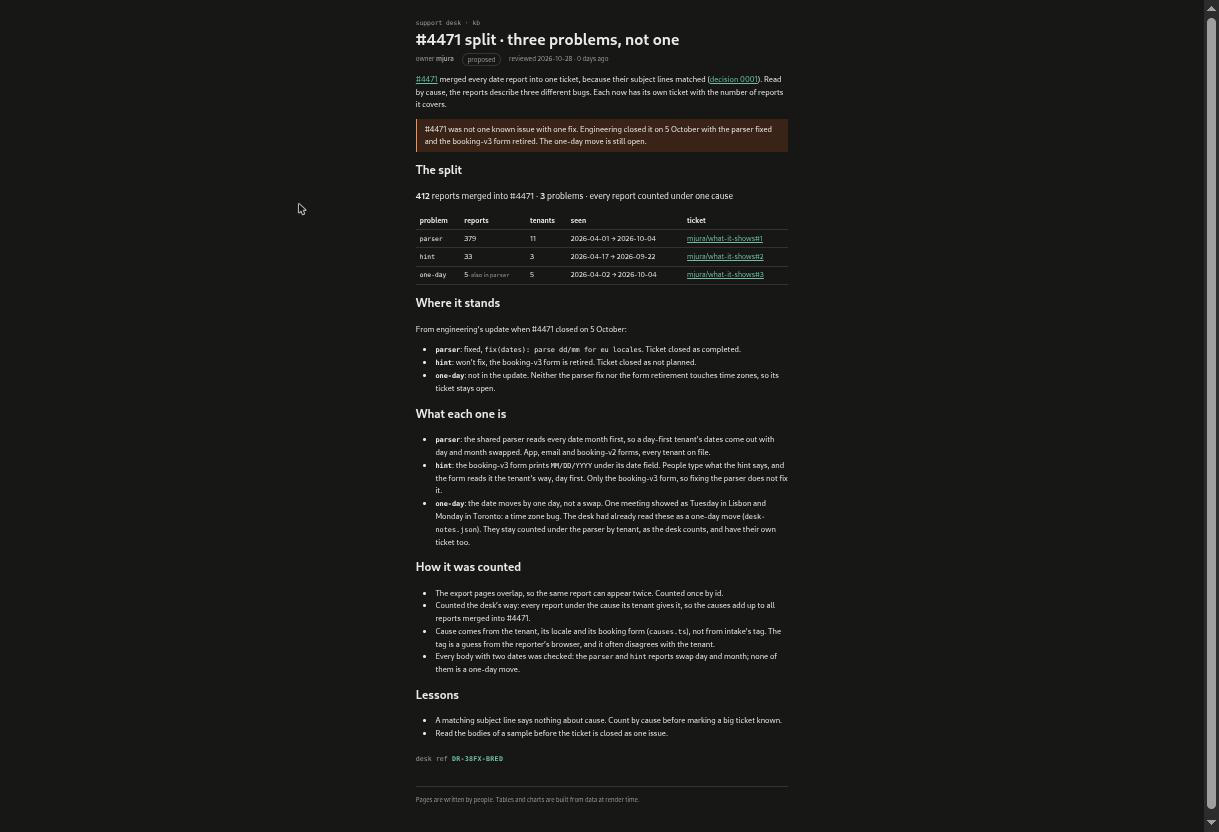
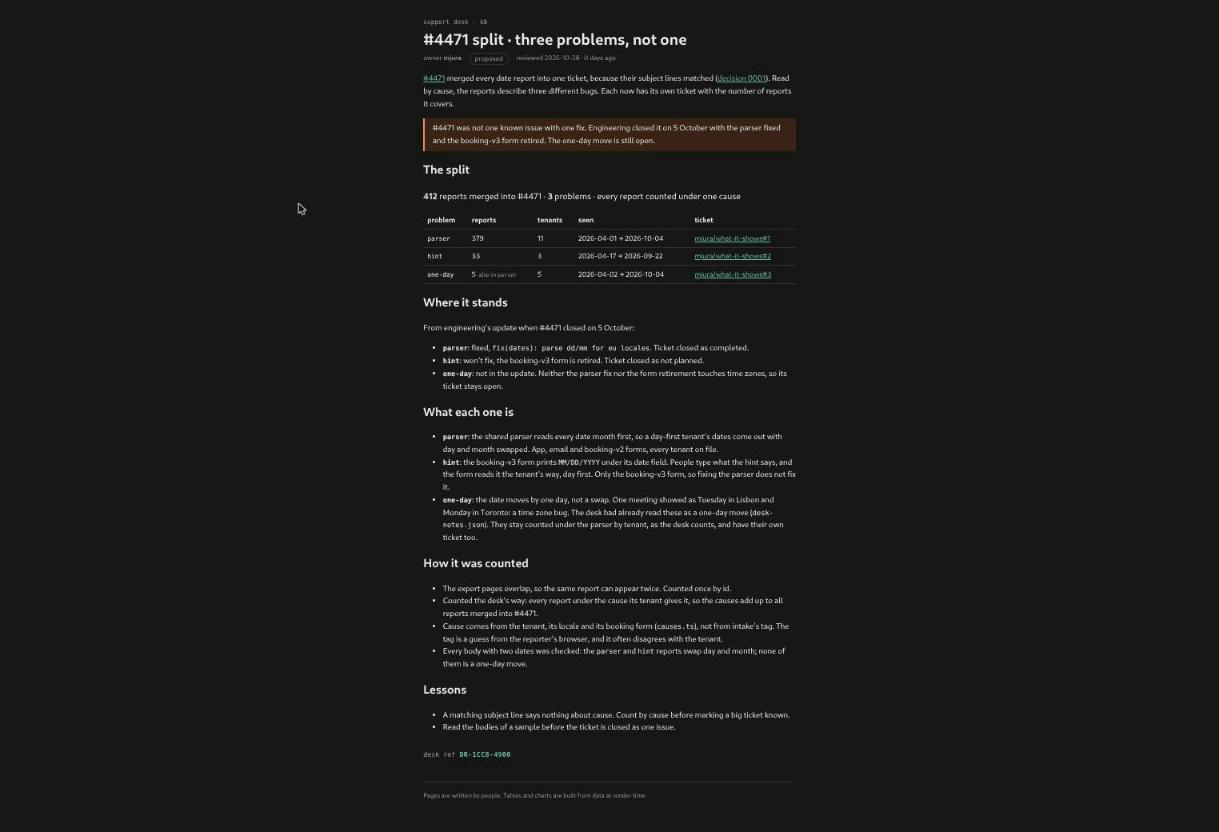
Sign the kb page with the course ticket

Changed region(s): [[0.3429, 0.0, 0.6546, 0.9688], [0.9664, 0.0, 0.9975, 1.0]]

diff --git a/rendered/4471-split.html b/rendered/4471-split.html
@@ -22,7 +22,7 @@ Monday in Toronto: a time zone bug. The desk had already read these as a one-day
 their own ticket too.</li></ul> <h2>How it was counted</h2> <ul><li>The export pages overlap, so the same report can appear twice. Counted once by id.</li> <li>Counted the desk’s way: every report under the cause its tenant gives it, so the causes add up
 to all reports merged into #4471.</li> <li>Cause comes from the tenant, its locale and its booking form (<code>causes.ts</code>), not from intake’s tag.
 The tag is a guess from the reporter’s browser, and it often disagrees with the tenant.</li> <li>Every body with two dates was checked: the <code>parser</code> and <code>hint</code> reports swap day and month; none
-of them is a one-day move.</li></ul> <h2>Lessons</h2> <ul><li>A matching subject line says nothing about cause. Count by cause before marking a big ticket known.</li> <li>Read the bodies of a sample before the ticket is closed as one issue.</li></ul> <!--[--><p class="stamp svelte-5qojh0">desk ref <b class="svelte-5qojh0">DR-38FX-BRED</b></p><!--]--><!----><!----></main> <footer class="svelte-60g32v">Pages are written by people. Tables and charts are built from data at render time.</footer></div><!----><!----><!----><!--]--> <!--[!--><!--]--><!--]-->
+of them is a one-day move.</li></ul> <h2>Lessons</h2> <ul><li>A matching subject line says nothing about cause. Count by cause before marking a big ticket known.</li> <li>Read the bodies of a sample before the ticket is closed as one issue.</li></ul> <!--[--><p class="stamp svelte-5qojh0">desk ref <b class="svelte-5qojh0">DR-1CC8-4900</b></p><!--]--><!----><!----></main> <footer class="svelte-60g32v">Pages are written by people. Tables and charts are built from data at render time.</footer></div><!----><!----><!----><!--]--> <!--[!--><!--]--><!--]-->
 			
 			</div></body>
 </html>
